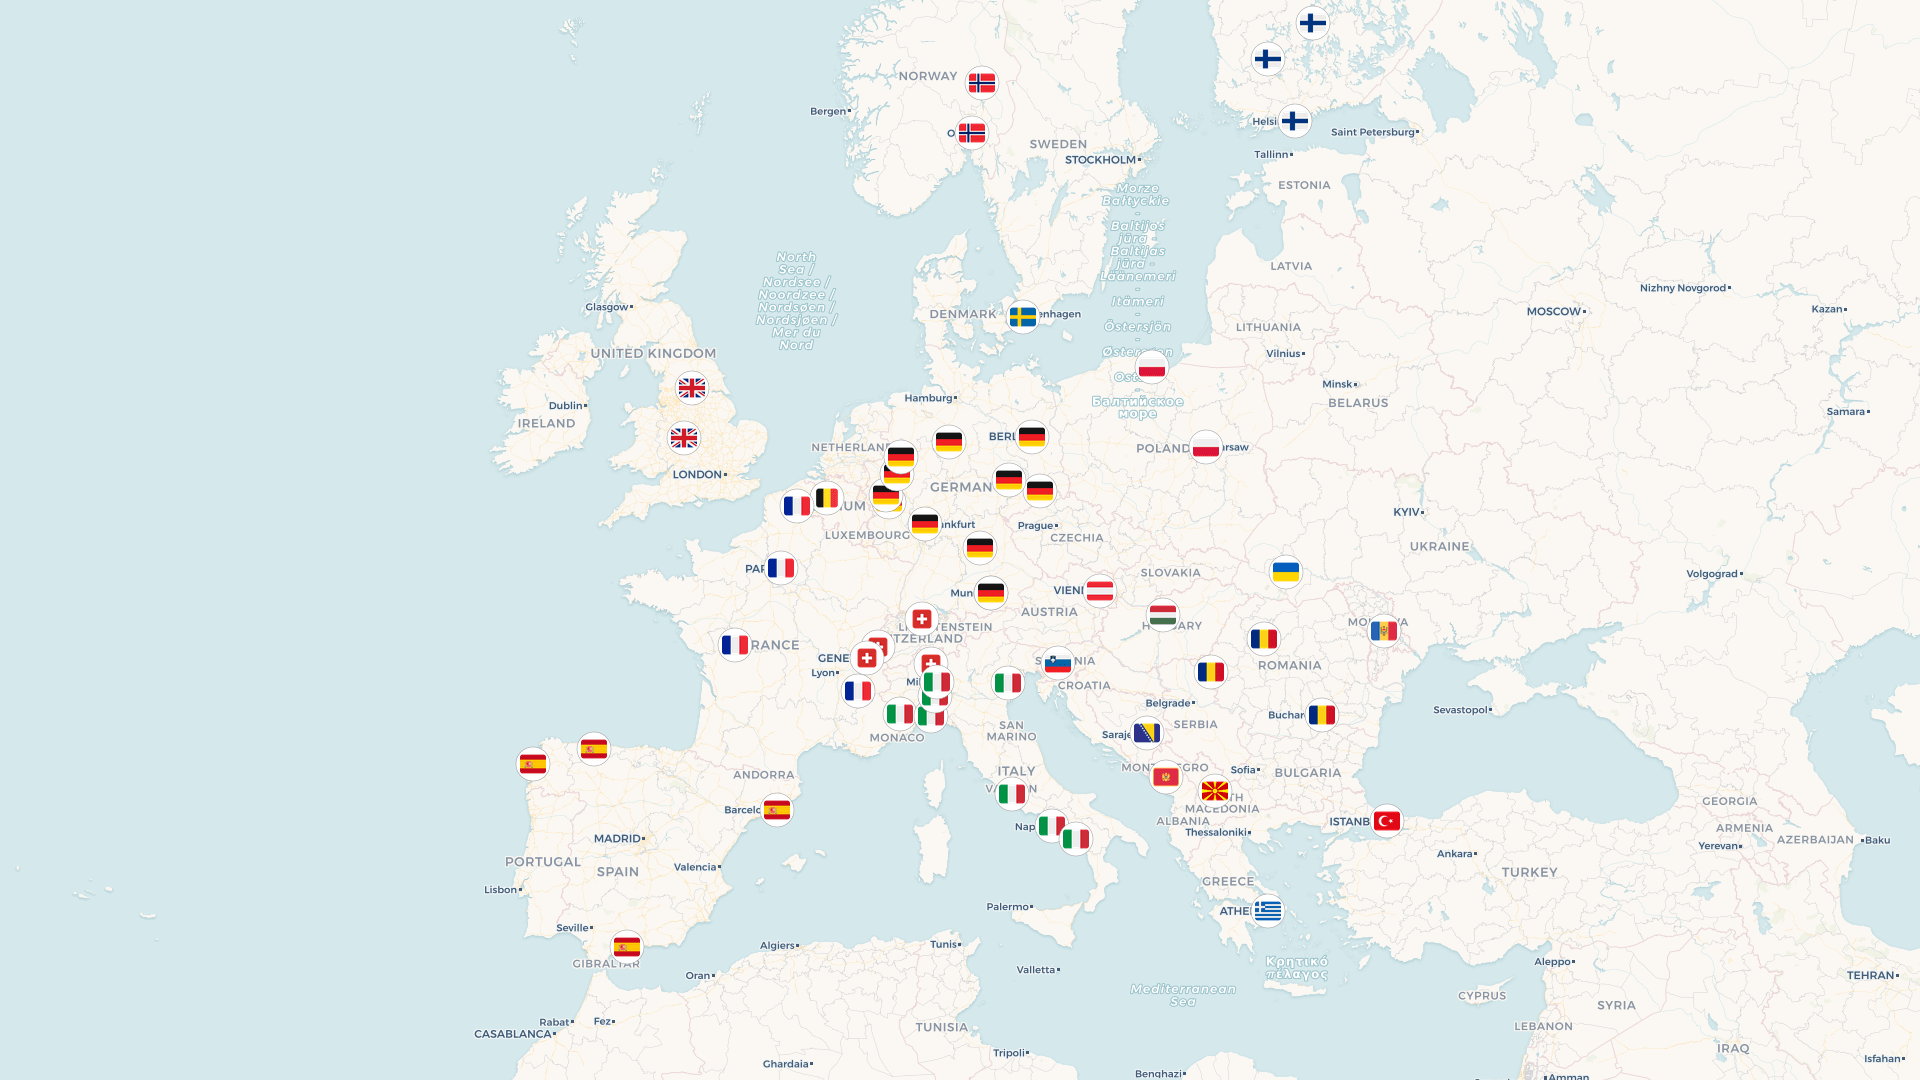
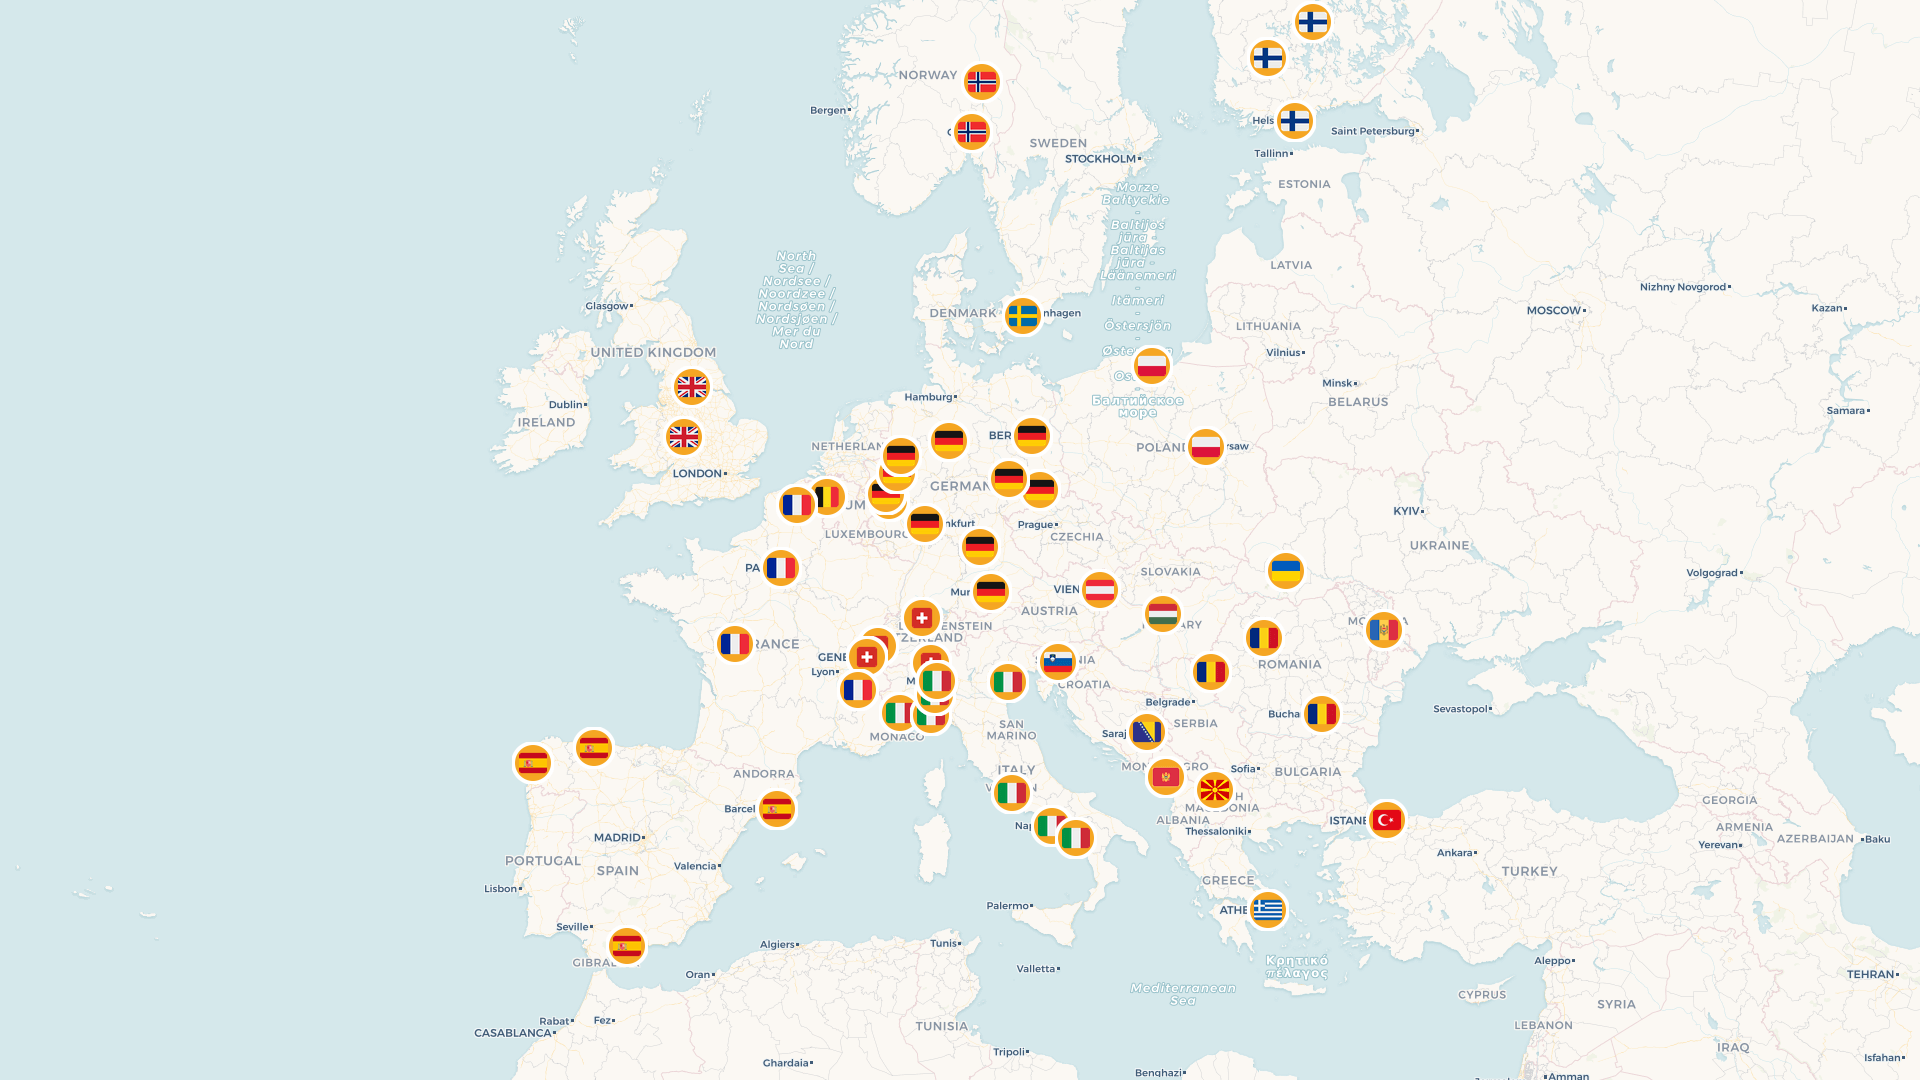
fix(map): orange circle markers with thick white border on Voyager tiles

diff --git a/scripts/generate-map.ts b/scripts/generate-map.ts
@@ -29,12 +29,12 @@ const OUT_GEOEXT = path.join(__dirname, "../config/geo-extremes.ts");
 // ── Map config ────────────────────────────────────────────────────────────────
 const MAP_WIDTH  = 1920;
 const MAP_HEIGHT = 1080;
-// CartoDB Voyager — cleaner labels, darker land, still styled
+// CartoDB Voyager — light tiles matching the original Leaflet map look
 const TILE_URL   = "https://{s}.basemaps.cartocdn.com/rastertiles/voyager/{z}/{x}/{y}{r}.png";
 
-// Marker: flag PNG composited onto a white circle
-const MARKER_SIZE   = 36; // outer circle diameter (px on the 1920×1080 map)
-const FLAG_SIZE     = 26; // flag PNG inside the circle
+// Marker: flag PNG composited onto an orange circle (matching original style)
+const MARKER_SIZE   = 42; // outer circle diameter (px on the 1920×1080 map)
+const FLAG_SIZE     = 28; // flag PNG inside the circle
 
 // ── Twemoji flag download ──────────────────────────────────────────────────────
 const FLAG_CACHE_DIR = path.join(os.tmpdir(), "gd-flag-cache");
@@ -58,7 +58,7 @@ async function downloadFlag(flag: string): Promise<Buffer | null> {
   } catch { return null; }
 }
 
-/** Composite flag onto a white circle to make it pop on dark map tiles. */
+/** Flag composited onto an orange circle with a thick white border. */
 async function buildMarker(flag: string): Promise<string | null> {
   const flagBuf = await downloadFlag(flag);
   if (!flagBuf) return null;
@@ -66,14 +66,14 @@ async function buildMarker(flag: string): Promise<string | null> {
   const markerPath = path.join(FLAG_CACHE_DIR, `marker-${flagToTwemojiName(flag)}`);
   if (fs.existsSync(markerPath)) return markerPath;
 
-  // Resize flag
+  // Resize flag to fit inside the circle
   const resizedFlag = await sharp(flagBuf).resize(FLAG_SIZE, FLAG_SIZE).toBuffer();
 
-  // White circle background (SVG rendered by sharp)
+  // Orange circle with thick white border
   const circleSvg = Buffer.from(
     `<svg width="${MARKER_SIZE}" height="${MARKER_SIZE}" xmlns="http://www.w3.org/2000/svg">` +
     `<circle cx="${MARKER_SIZE / 2}" cy="${MARKER_SIZE / 2}" r="${MARKER_SIZE / 2 - 1}" ` +
-    `fill="white" stroke="#999" stroke-width="0.5"/>` +
+    `fill="#F5A623" stroke="white" stroke-width="4"/>` +
     `</svg>`,
   );
 
